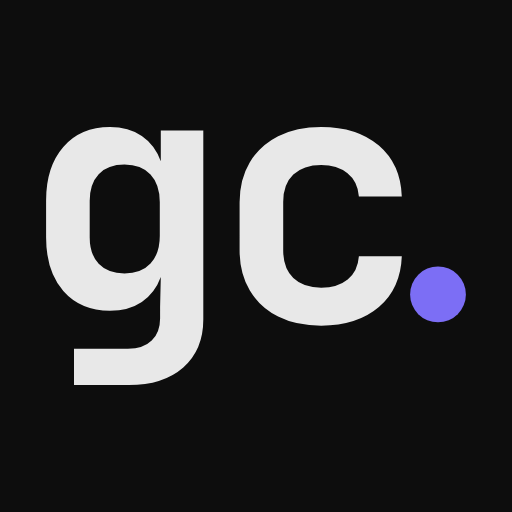
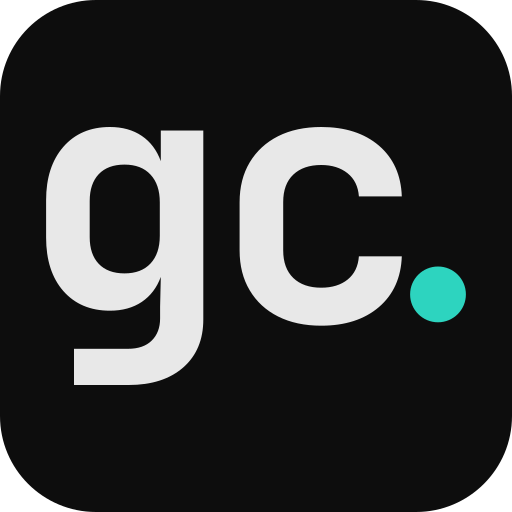
feat(style): change accent color

diff --git a/src/styles/_variables.css b/src/styles/_variables.css
@@ -5,8 +5,9 @@
   --border: #2a2a2a;
   --text: #e8e8e8;
   --muted: #888888;
-  --accent: #7c6ef5;
-  --accent-dim: #5b50c9;
+  --accent: #2dd4bf;
+  --accent-dim: #14b8a6;
+  --on-accent: #0d0d0d;
   --font: system-ui, -apple-system, 'Segoe UI', sans-serif;
   --font-mono: 'JetBrains Mono', 'Fira Code', 'Cascadia Code', monospace;
   --radius: 8px;
@@ -23,8 +24,9 @@
   --border: #e0e0e0;
   --text: #111111;
   --muted: #555555;
-  --accent: #5b50c9;
-  --accent-dim: #4a3dc5;
+  --accent: #0f766e;
+  --accent-dim: #115e59;
+  --on-accent: #fff;
 }
 
 /* On mobile the header wraps to 2 rows */
